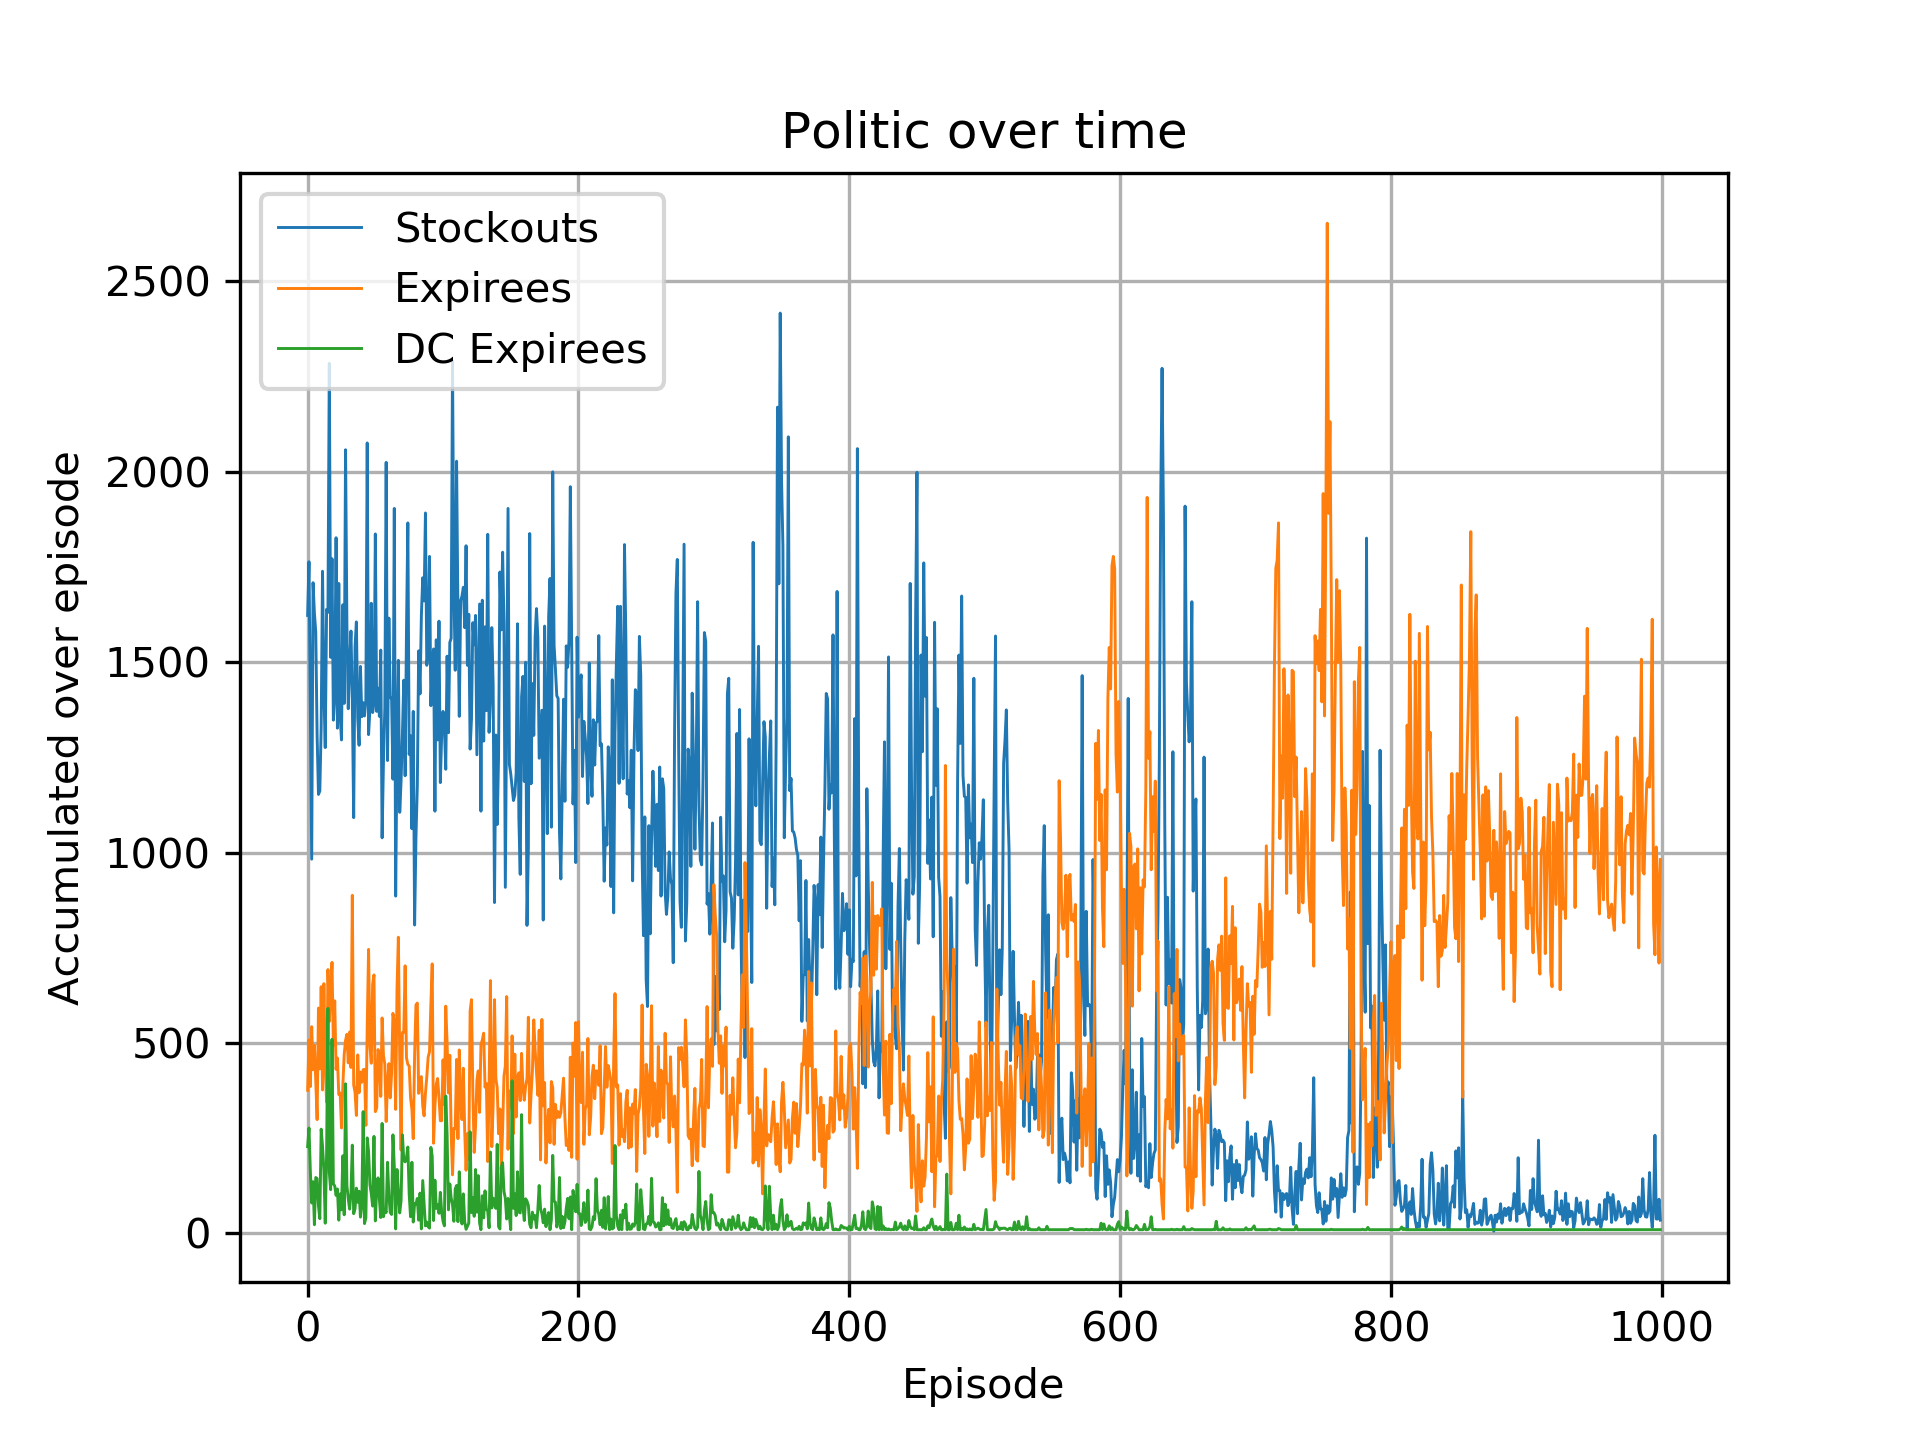
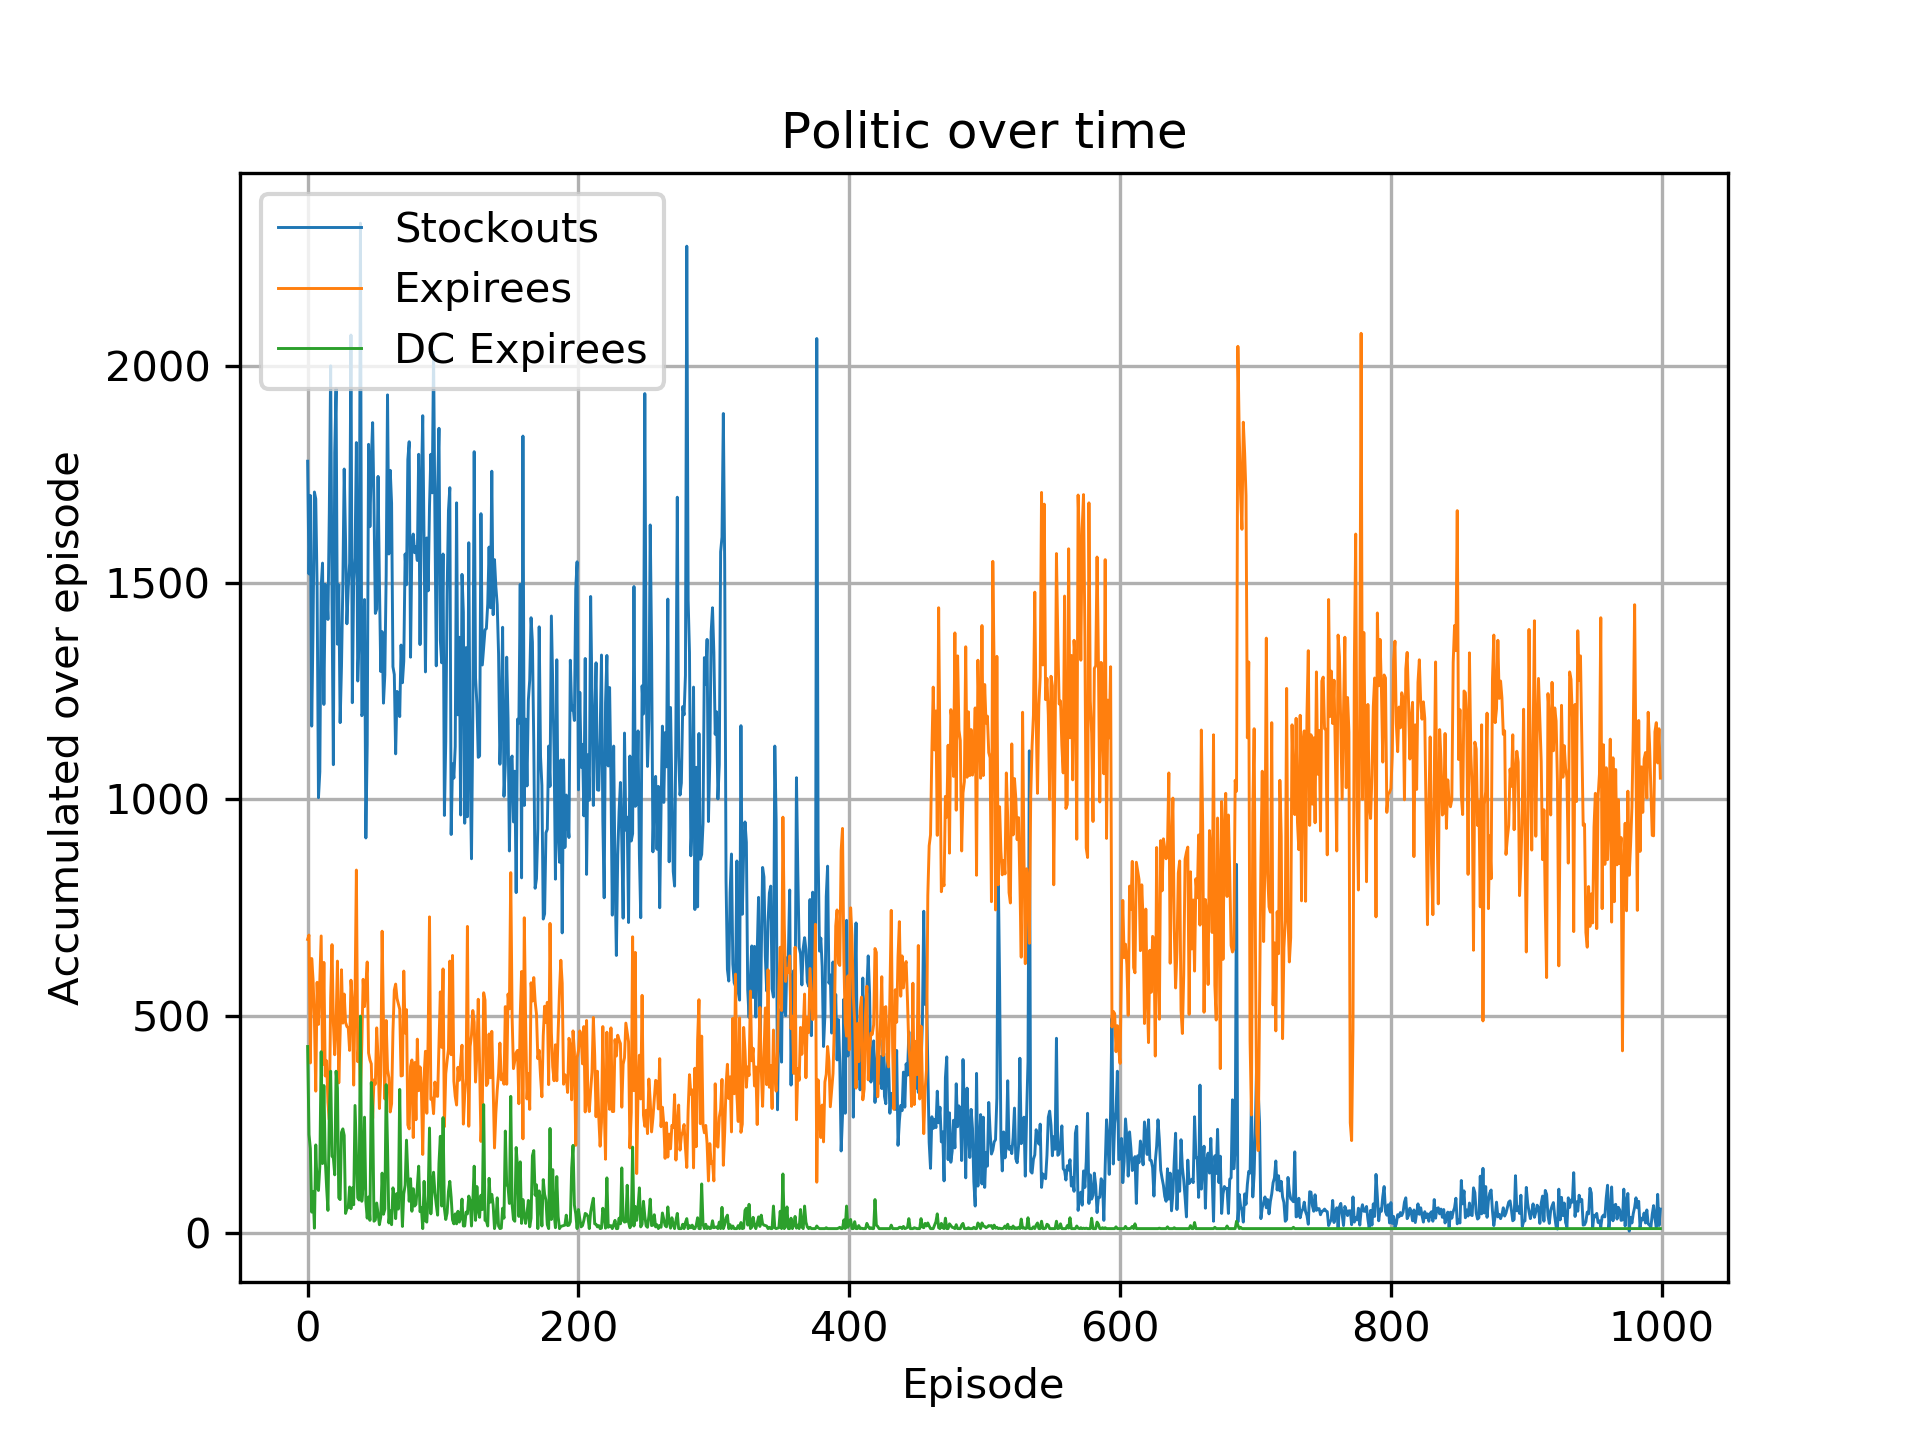
Changed learning rate for DDQN agent

diff --git a/VMIwithDRL/src/agent_model/DDQL_agent.py b/VMIwithDRL/src/agent_model/DDQL_agent.py
@@ -53,7 +53,7 @@ class NN(nn.Module):
 class TrainingAgent:
 
     def __init__(self, model, runs, steps_per_run, batch_size, min_epsilon=0.05, gamma=0.999,
-                 memory=5000, use_gpu=False, epsilon_min_percentage=0.1, epsilon_function='linear'):
+                 memory=5000, use_gpu=False, epsilon_min_percentage=0.1, epsilon_function='linear',lr=1e-3):
 
         if epsilon_function == 'linear':
             self.epsilon_function = self.linear_epsilon
@@ -92,7 +92,7 @@ class TrainingAgent:
             print("Training model on CPU.")
         # self.loss = nn.SmoothL1Loss()
         self.loss = nn.MSELoss()
-        self.optizer = optim.Adam(self.q_network.parameters(), amsgrad=True)
+        self.optizer = optim.Adam(self.q_network.parameters(),lr=lr, amsgrad=True)
         for target_param, param in zip(self.q_network.parameters(), self.target_network.parameters()):
             target_param.data.copy_(param)
 

diff --git a/VMIwithDRL/src/test_script.py b/VMIwithDRL/src/test_script.py
@@ -50,8 +50,8 @@ if __name__ == '__main__':
 
     train_runs = 1000
     model = VMI(4, 100, 5,train_runs, initial_state, 5, 100)
-    agent = TrainingAgent(model=model, runs=train_runs, steps_per_run=365, batch_size=32, memory=1825, use_gpu=True,
-                          epsilon_function='linear', min_epsilon=0.01,epsilon_min_percentage=0.10)
+    agent = TrainingAgent(model=model, runs=train_runs, steps_per_run=365, batch_size=128, memory=1825, use_gpu=True,
+                          epsilon_function='linear', min_epsilon=0.001,epsilon_min_percentage=0.25,lr=0.0005)
     rewards = agent.run()
     agent.validate(50, 365)
     log = model.log["train"]
